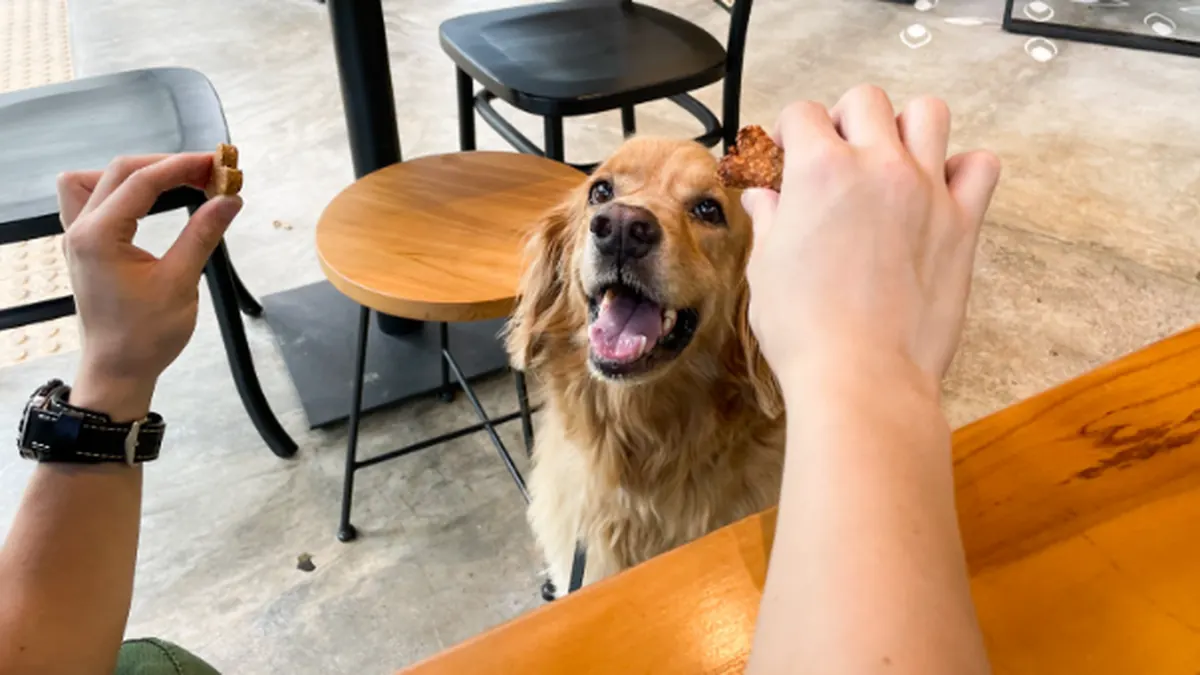
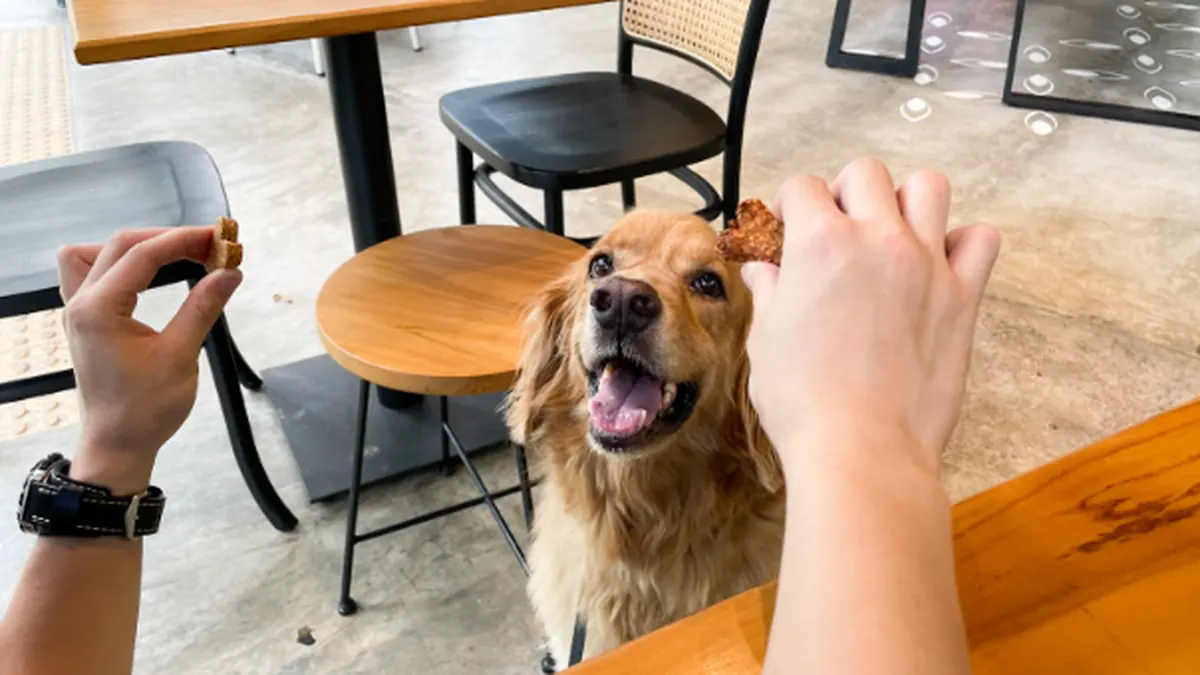
Mylo's case study pop-up, science topic tiles, wider pages
Claude-Session: https://claude.ai/code/session_01Kr5FGKK8J9iYN1bBsRB5G1

diff --git a/science.html b/science.html
@@ -64,12 +64,11 @@ h1 em{font-style:normal;background:linear-gradient(transparent 62%,var(--mark) 6
 /* topic tiles: every topic visible at once, each marked with its key quantity */
 .index{display:flex;flex-direction:column;gap:.9rem}
 .index .hint{color:var(--muted)}
-.tiles{display:grid;grid-template-columns:repeat(auto-fill,minmax(min(100%,10.5rem),1fr));gap:.9rem}
-.tile{display:flex;flex-direction:column;gap:.35rem;text-align:left;min-height:11.5rem;padding:.9rem;font:inherit;color:var(--ink);cursor:zoom-in;min-width:0;
+.tiles{display:grid;grid-template-columns:repeat(auto-fill,minmax(min(100%,12.5rem),1fr));gap:.9rem}
+.tile{display:flex;flex-direction:column;gap:.6rem;text-align:left;min-height:7.5rem;padding:.9rem;font:inherit;color:var(--ink);cursor:zoom-in;min-width:0;
   background:var(--surface);border:1.5px solid var(--line);border-top:6px solid var(--accent);border-radius:14px;transition:transform .2s ease,border-color .2s ease}
 .tile:hover{transform:translateY(-3px);border-color:var(--ink);border-top-color:var(--accent)}
-.tile .sym{font-family:var(--display);font-weight:800;font-size:clamp(2rem,4vw,2.7rem);line-height:1;letter-spacing:-0.03em}
-.tile b{font-family:var(--display);font-weight:700;font-size:1.08rem;line-height:1.1;margin-top:auto;text-wrap:balance}
+.tile b{font-family:var(--display);font-weight:700;font-size:1.35rem;line-height:1.08;letter-spacing:-0.01em;text-wrap:balance}
 .tile .mono{color:var(--berry);font-size:.6875rem}
 dialog.tdlg{border:0;padding:0;background:var(--surface);color:var(--ink);border-radius:18px;border-top:6px solid var(--accent);width:min(72rem,calc(100% - 32px));max-height:calc(100% - 48px);overflow:auto}
 dialog.tdlg::backdrop{background:rgba(16,22,40,.62)}
@@ -595,9 +594,9 @@ footer .wrap{padding-block:1.5rem 2.5rem;border-top:3px solid var(--accent);colo
   var dlg = $("topicDlg"), grid = $("tiles"), tiles = [], openId = null, fromTile = null, closing = false, onShow = {};
   topics.forEach(function(t,i){
     var b = document.createElement("button"); b.type = "button"; b.className = "tile"; b.id = "tile-"+t.id.slice(6);
-    var y = document.createElement("span"), n = document.createElement("b"), c = document.createElement("span");
-    y.className = "sym"; y.textContent = t.getAttribute("data-sym"); n.textContent = t.getAttribute("data-card"); c.className = "mono"; c.textContent = t.getAttribute("data-cat");
-    b.appendChild(y); b.appendChild(n); b.appendChild(c);
+    var n = document.createElement("b"), c = document.createElement("span");
+    n.textContent = t.getAttribute("data-card"); c.className = "mono"; c.textContent = t.getAttribute("data-cat");
+    b.appendChild(c); b.appendChild(n);
     b.addEventListener("click", function(){ openTopic(i, b, false) });
     grid.appendChild(b); tiles.push(b);
   });
